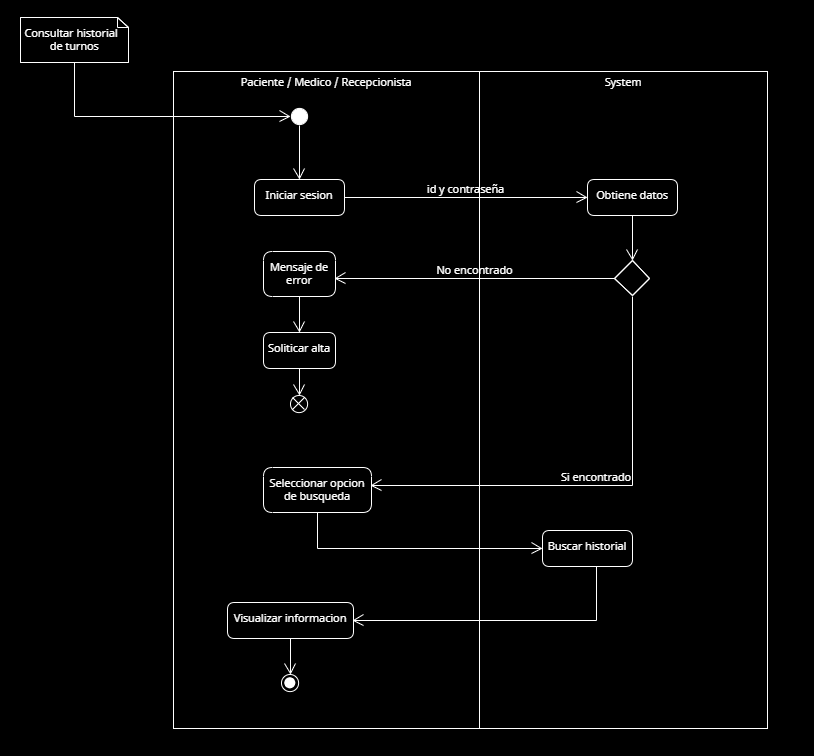
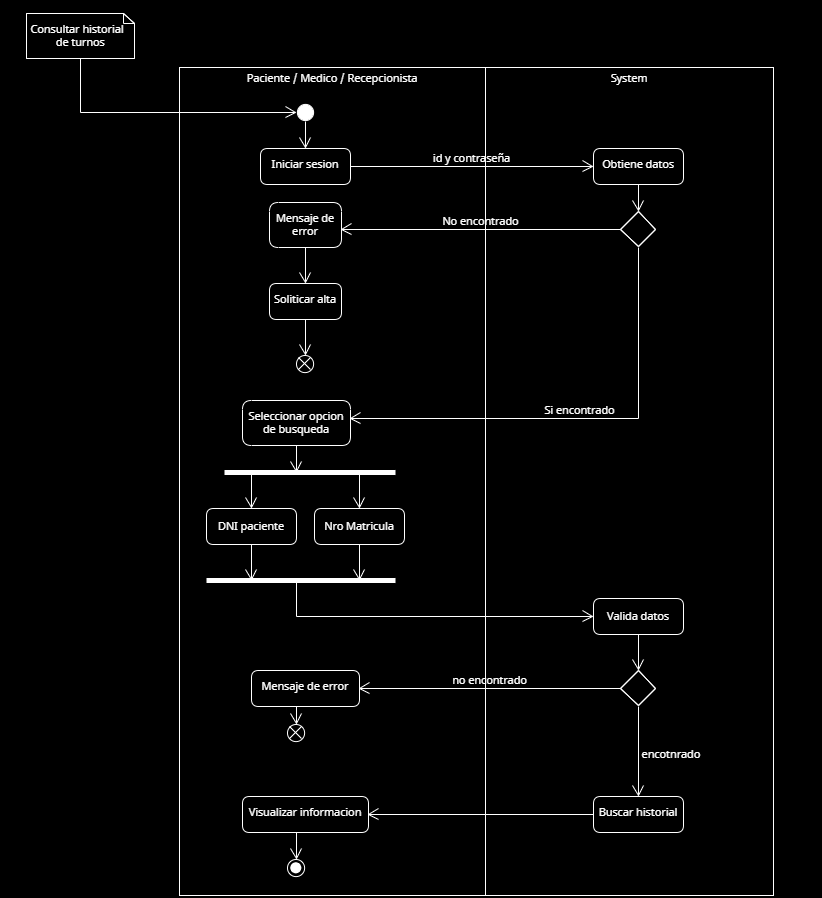
correccion actividad 3

diff --git a/diagramas_de_actividades.md b/diagramas_de_actividades.md
@@ -1,7 +1,7 @@
 ## Diagramas de Actividades
 
-- [Diagrama de Actividad - Registrar un médico](https://drive.google.com/file/d/1qYziWaQhbW1rQ0cjWD6yYLKqZnh1UFnK/view?usp=drive_link)
-- [Diagrama de Actividad - Registrar un paciente](https://drive.google.com/file/d/1kvGR8kX75EZvsEucoopq9OBGOBmAPcmC/view?usp=drive_link)
+- [Diagrama de Actividad - Registrar un médico](https://drive.google.com/file/d/1ZCbL_gcTCl_m8qwr35H45lt9colAXb_C/view?usp=drive_link)
+- [Diagrama de Actividad - Registrar un paciente](https://drive.google.com/file/d/1Uf_C3JFHHhIQcvv5soRK6JBz4gr-QVKd/view?usp=drive_link)
 - [Diagrama de Actividad - Asignar un turno médico](https://drive.google.com/file/d/17iMcFS4kCNObPp6iXpjjOXvg4Pqvlj_t/view?usp=drive_link)
 - [Diagrama de Actividad - Modificar o cancelar un turno](https://drive.google.com/file/d/1ljRFpwJ7cAzspjNEdPaccsBNGcfP_hNu/view?usp=drive_link)
-- [Diagrama de Actividad - Consultar historial de turnos](https://drive.google.com/file/d/1texV35J7Gv2RcY8uIbrp3HSLYaizDbZl/view?usp=drive_link)
+- [Diagrama de Actividad - Consultar historial de turnos](https://drive.google.com/file/d/1LQveaxmC1EBPemP7vWRh1KJkDP51kzJL/view?usp=drive_link)

diff --git a/diagramasUML.md b/diagramasUML.md
@@ -4,3 +4,4 @@
 - [Escenarios de Casos de Uso](escenarios_de_casos_de_uso.md)
 - [Diagramas de actividades](diagramas_de_actividades.md)
 - [Diagramas de secuencias](diagramas_de_secuencias.md)
+- [Diagrama de clases]()

diff --git a/herramientas_agile.md b/herramientas_agile.md
@@ -1,3 +1,4 @@
 ## Herramientas Agile
 
 - [Tarjetas CRC](https://docs.google.com/spreadsheets/d/1ogxQVHlmGD_cXgUz922kM-51ujJaD2zVVAglKm2fzG0/edit?usp=drive_link)
+- [Matriz CLAE]()
